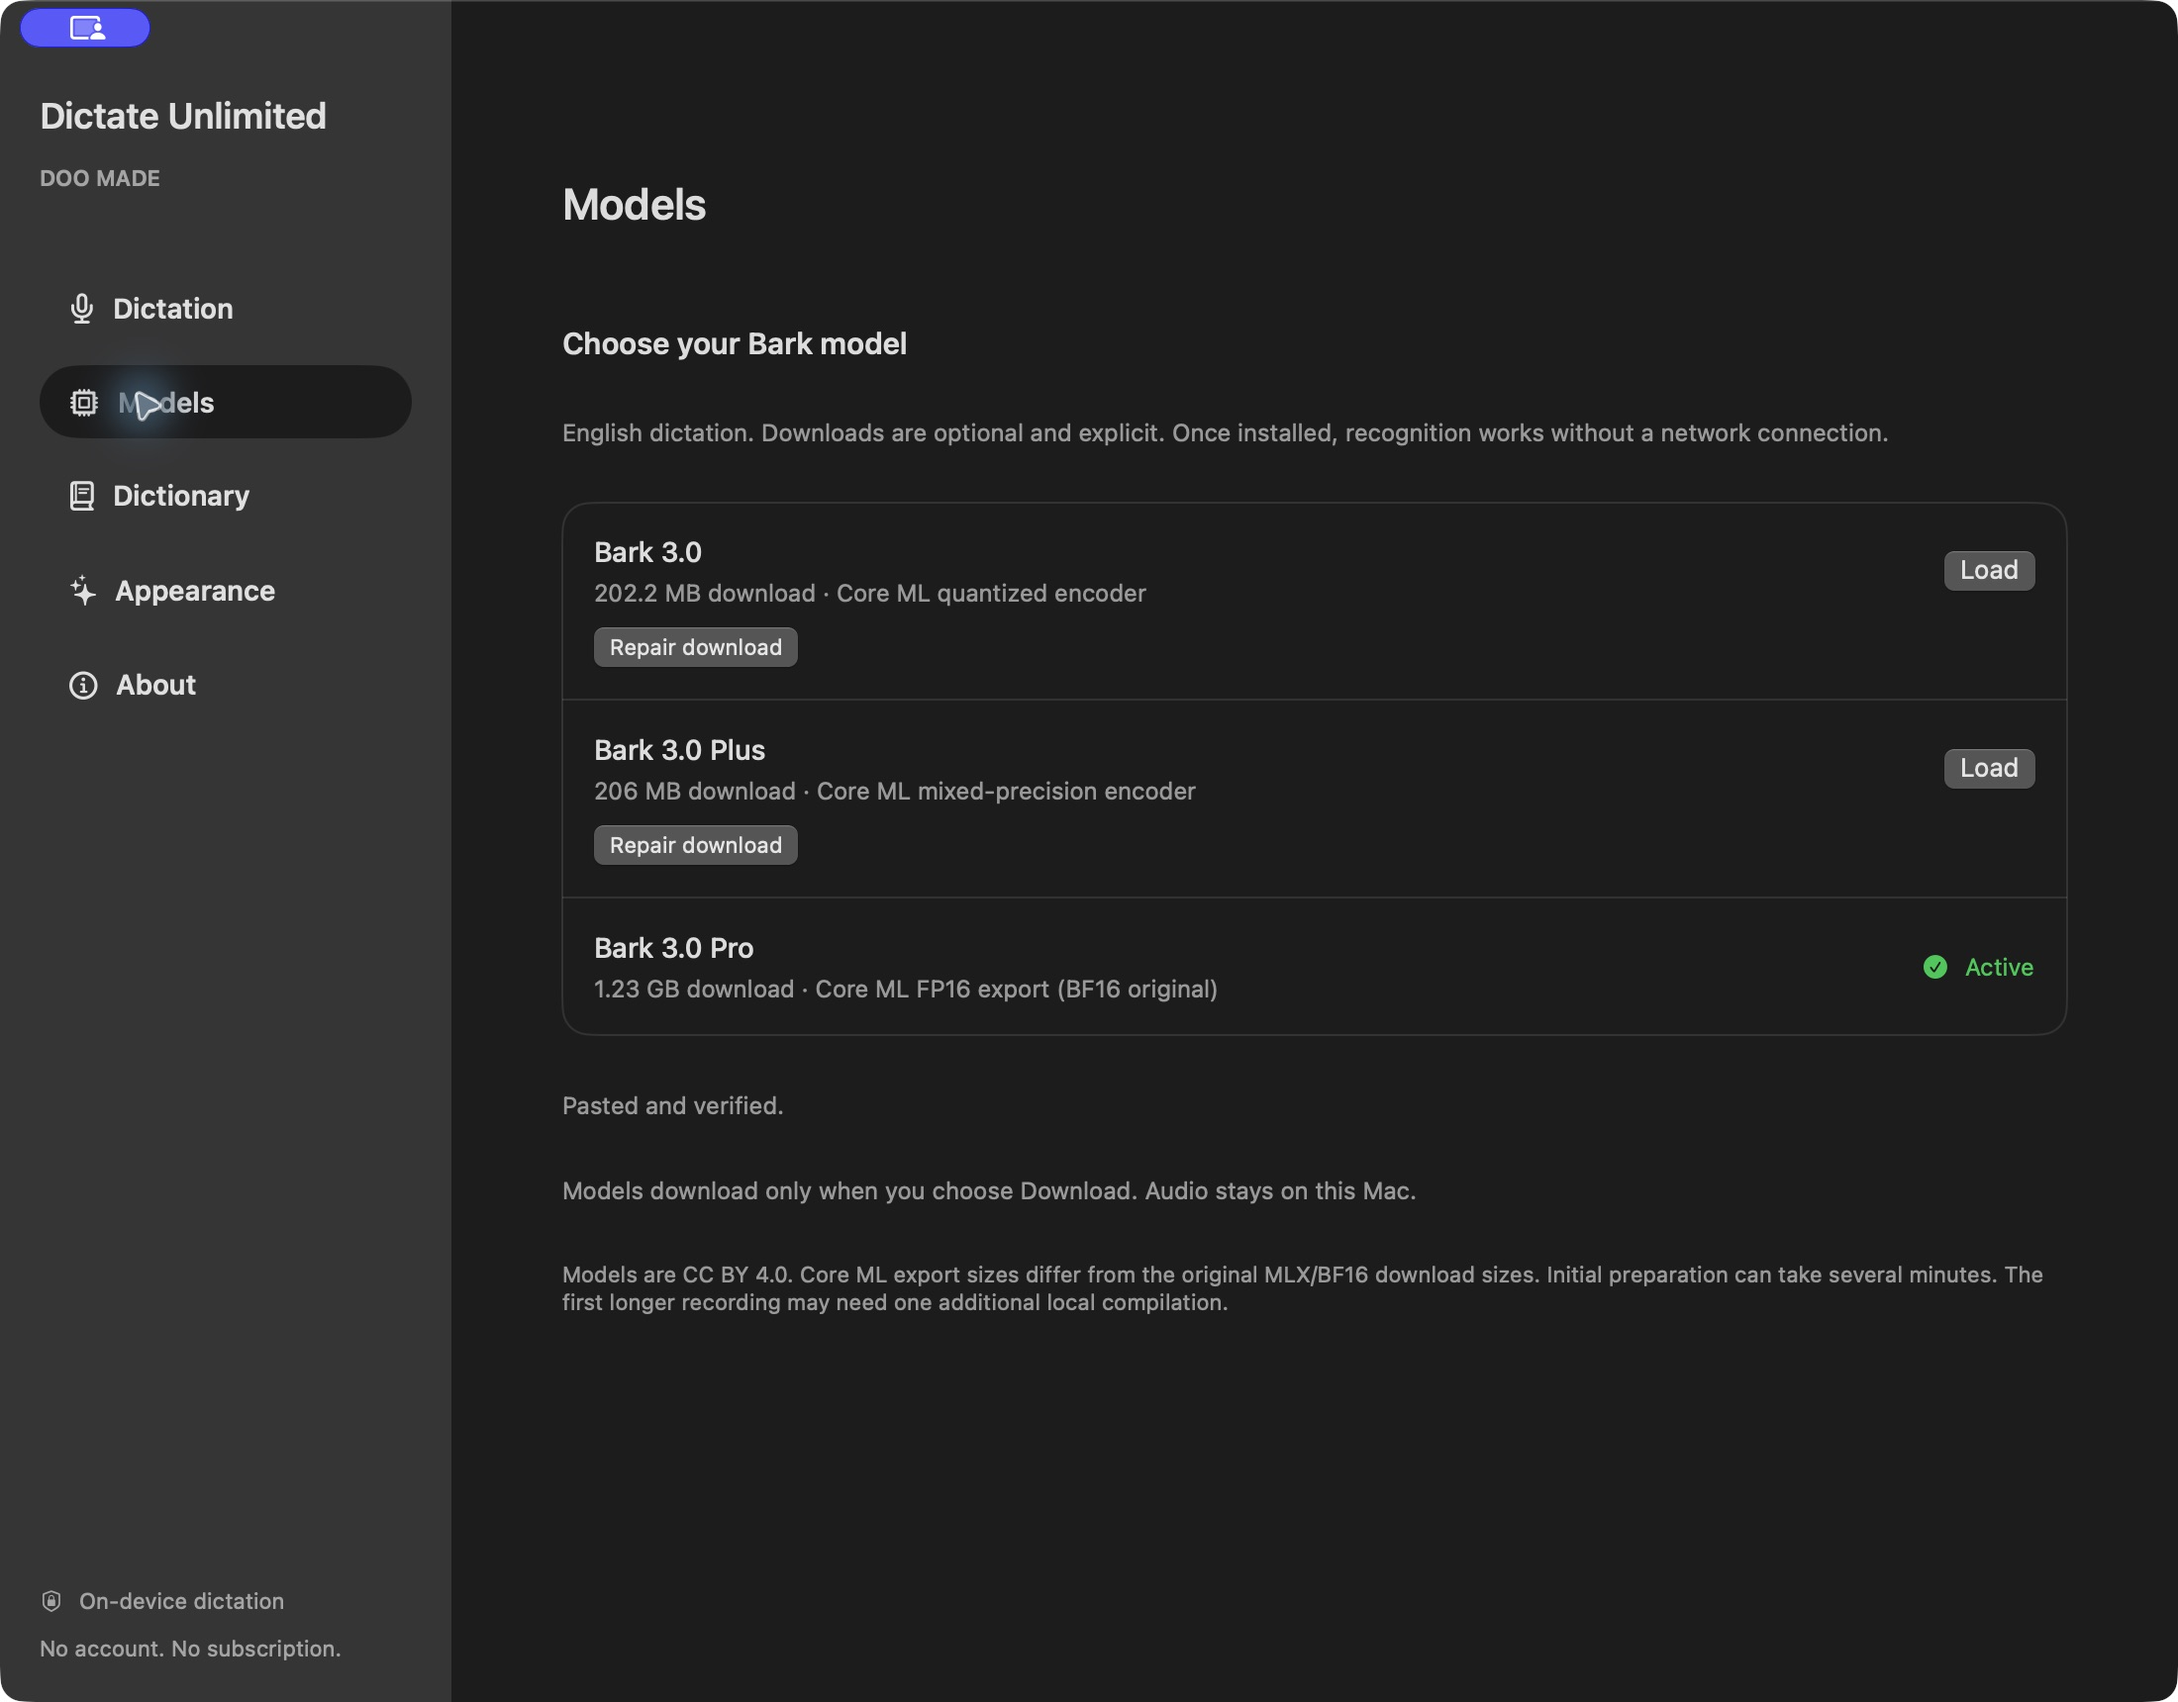
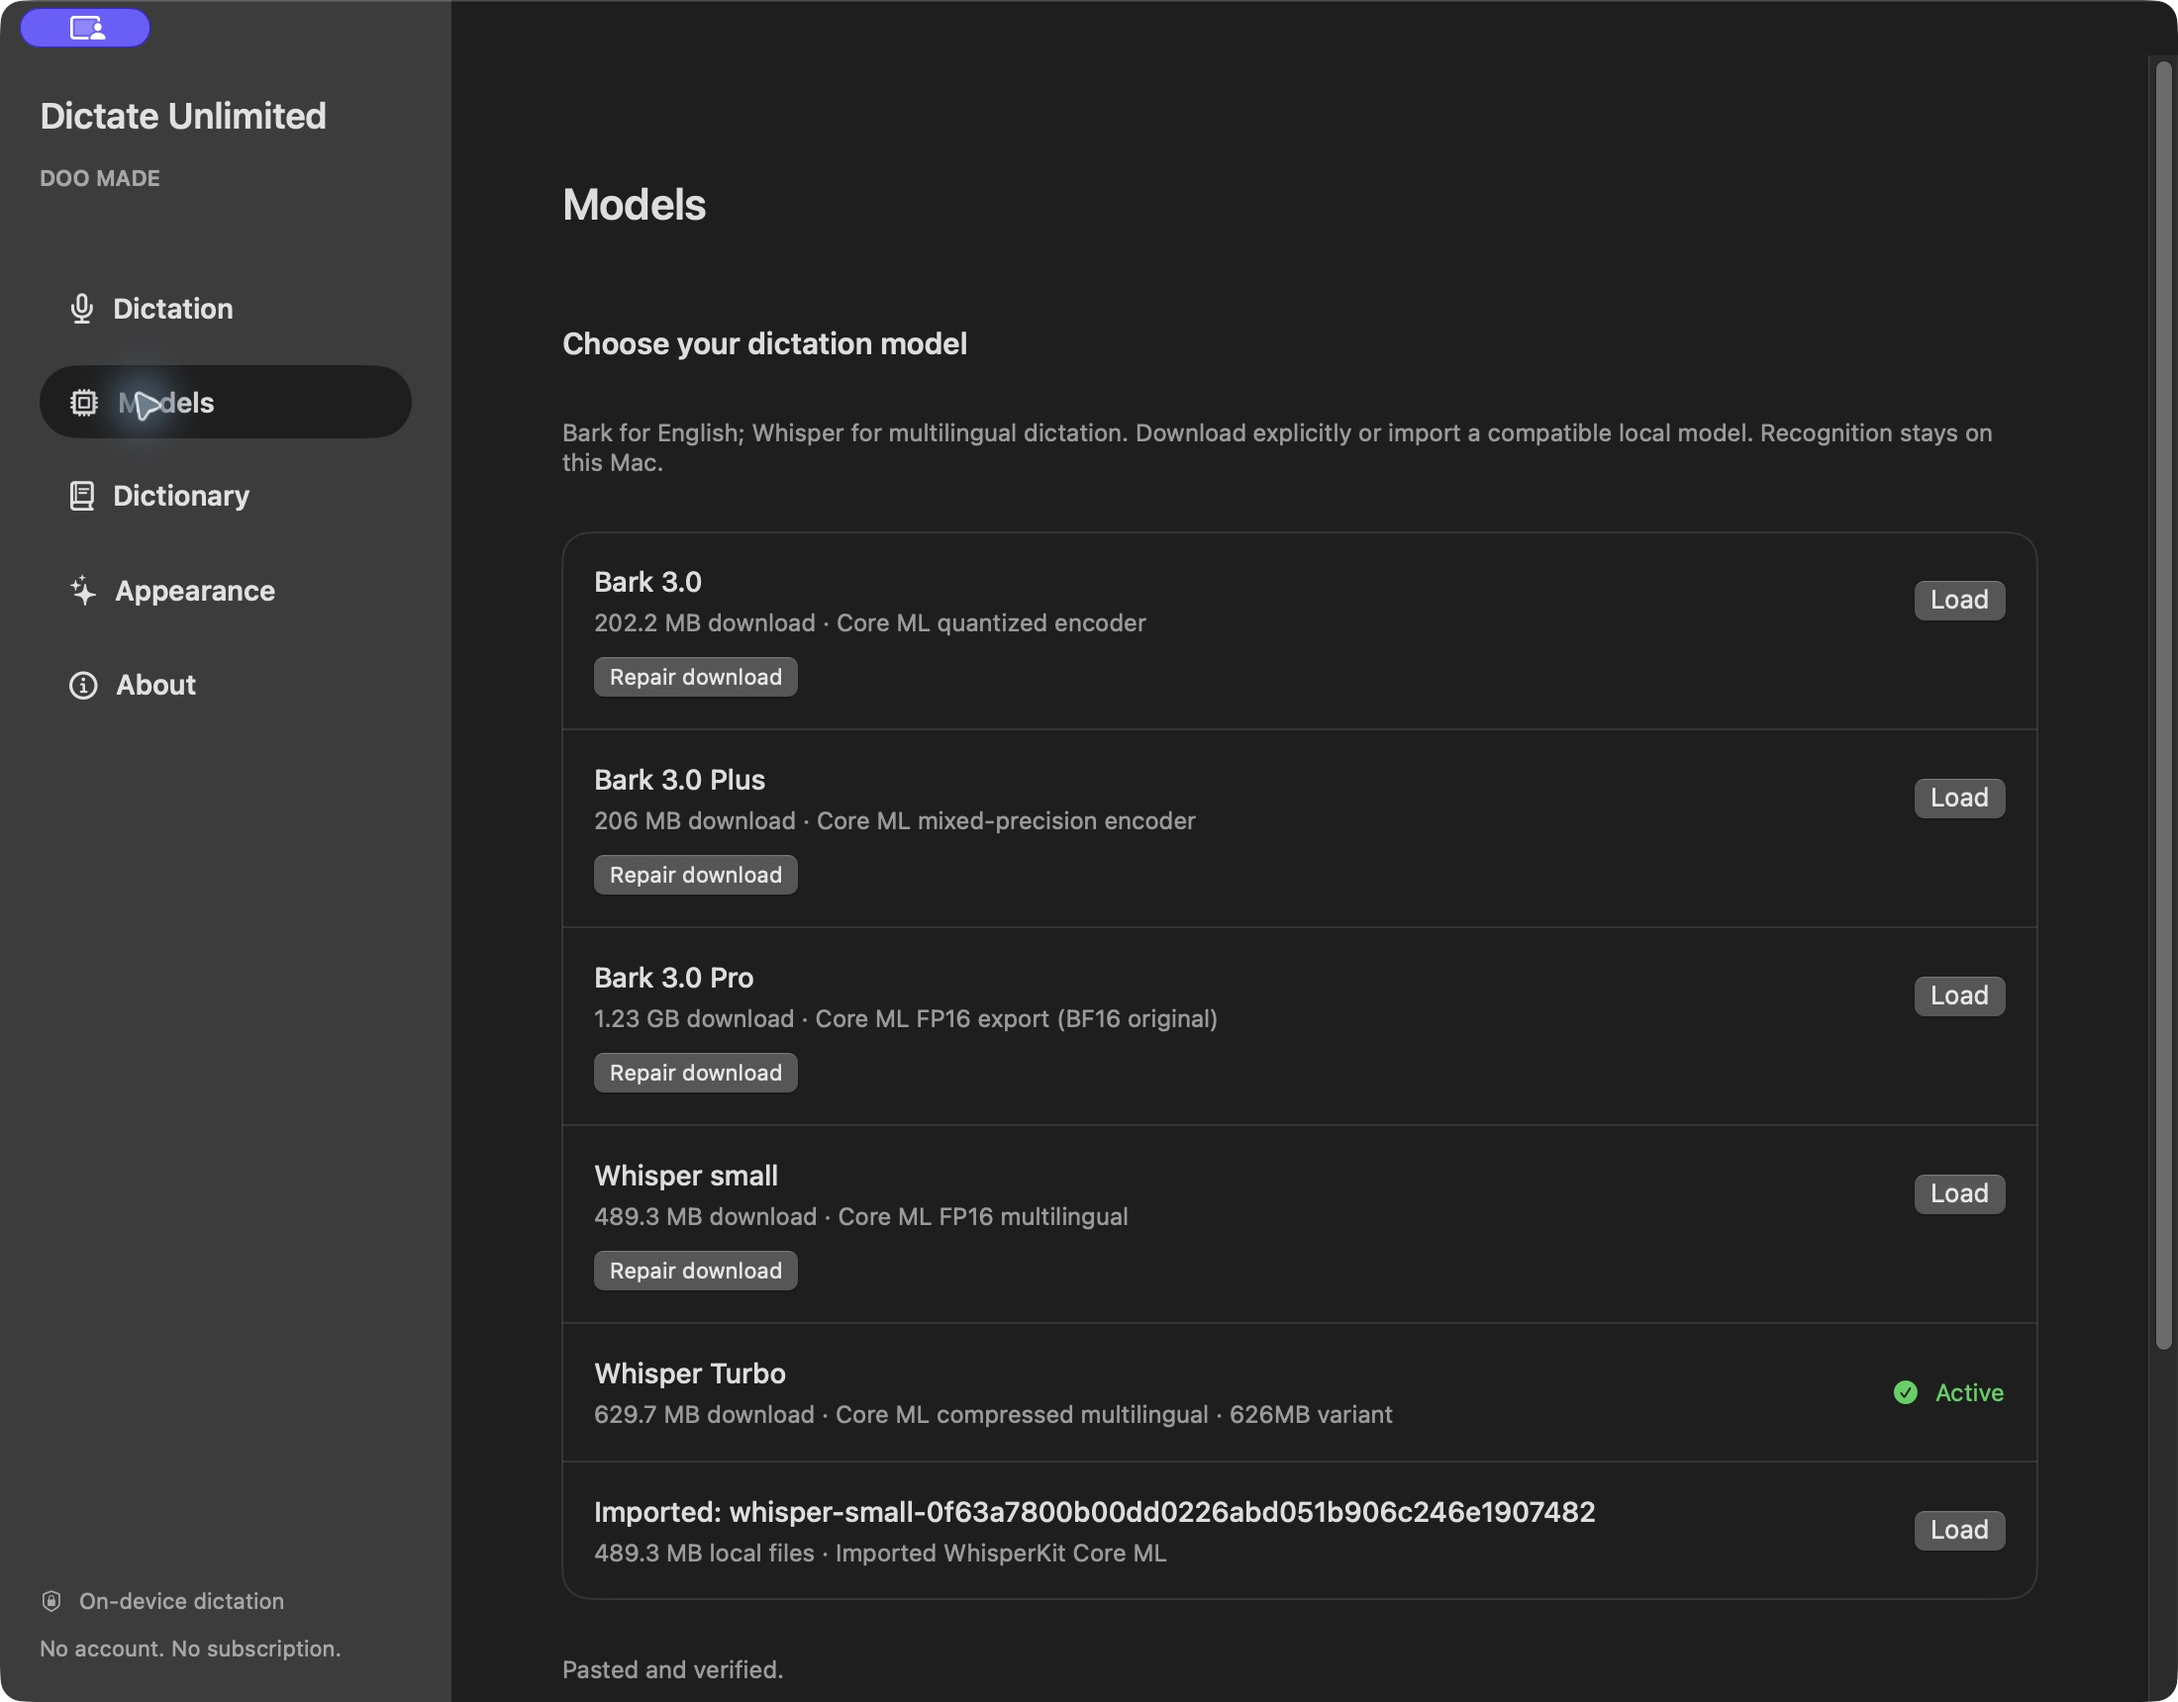
Prepare V1.1 source preview release and updated documentation

diff --git a/docs/TESTING.md b/docs/TESTING.md
@@ -6,6 +6,7 @@ Tools-only test host. Use full Xcode for `swift test`.
 
 ```sh
 ./scripts/check-local.sh
+./scripts/check-audio-startup.sh
 ./scripts/check-session.sh
 ./scripts/check-model-store.sh
 ./scripts/check-correction-store.sh
@@ -18,11 +19,11 @@ interruption and suppression of late results. They do not simulate physical hard
 
 ## Observed coverage
 
-- All three models downloaded through the app into isolated storage and passed
+- All three Bark models downloaded through the app into isolated storage and passed
   declared size/hash checks. The clean-built app then transcribed the synthetic
   fixture from those new downloads with networking denied. Base Repair restored a
   deliberately corrupted artifact. Cancel/retry also passed in the real UI.
-- All three accepted five-minute input and rejected input over the limit.
+- All three Bark models accepted five-minute input and rejected input over the limit.
 - Base and Plus exactly matched a 738-word repeated fixture. Pro inserted three
   extra words. This fixture is not a general recognition-accuracy benchmark.
 - A real five-minute microphone recording stopped automatically; cancellation during
@@ -63,7 +64,7 @@ and re-adding the current app; the tester confirmed delivery afterward. Closing 
 reopening Settings was tested after adding the application reopen handler. These
 checks do not imply every keyboard layout, application or microphone was tested.
 
-## V1.1 local development checks
+## V1.1 validation
 
 Whisper small and compressed Turbo were exercised with networking denied using
 installed macOS Samantha/Yuna synthetic voices, separately in English/Korean and
@@ -78,7 +79,10 @@ English inference; base heard “Mac” as “map”, and Pro emitted its known 
 Import store checks cover copied-file hashes, persistence, corruption, symlinks,
 unexpected executable files, missing components, cancellation and URL directory
 metadata differences. Runtime checks confirm corrupt tokenizers fail locally with
-no fallback. Physical bilingual dictation/insertion on this build remains pending.
+no fallback. The tester confirmed Korean and Japanese dictation worked and reported completion
+of the requested English/Korean/mixed-language check. After the microphone freeze
+repair, the tester confirmed the app worked. These are user confirmations, separate
+from the synthetic fixtures and bounded repeated-start checks below.
 
 Microphone-startup follow-up: a user-reported freeze was sampled inside
 AVAudioEngine input-device setup on the main actor, not Whisper inference. Engine

diff --git a/docs/USAGE.md b/docs/USAGE.md
@@ -2,7 +2,7 @@
 
 ## Use
 
-1. On first use, open Models, download one of Bark 3.0 / Plus / Pro, then Load it. Later launches automatically validate and load your last selected installed model. First load can
+1. On first use, open Models, download a Bark model for English or Whisper small/Turbo for multilingual dictation, then Load it. Later launches automatically validate and load your last selected installed model. First load can
    take minutes while Core ML compiles. Base/Plus prepare the short encoder first and prepare the long encoder
    only when needed. Warm caches are reused; see docs/TESTING.md for coverage and the remaining first-use delay. Switching releases the previous runtime.
 2. In Dictation, check **Microphone readiness**, choose System default or a specific
@@ -50,7 +50,7 @@ beside the verified model artifacts in Application Support/DOO MADE/Dictate Unli
 The original 163/180 MB MLX and 1.25 GB BF16 artifacts are not the Core ML exports.
 Actual displayed downloads are approximately 202 MB, 206 MB and 1.23 GB. Pro uses
 FP16 Core ML weights. Runtime/accuracy equivalence to original benchmark paths is
-not claimed. All three are English models; they transcribe fillers rather than
+not claimed. Bark models are English-only; they transcribe fillers rather than
 performing cloud cleanup.
 
 
@@ -61,3 +61,11 @@ If System Settings shows access enabled but the app says **Text insertion access
 Your completed text remains in the app until Clear or Quit. Once access is restored, focus your writing field and use paste-last recovery. Always inspect an uncertain delivery before retrying to avoid duplicate text.
 
 The app lives in the menu bar. Closing Settings does not quit it. Open the app again or choose Settings from the microphone menu. The floating feedback view hides when dictation finishes.
+
+## Languages and imported models
+
+Load Whisper small or Turbo to enable the Language selector. Choose Auto-detect or
+a listed language, including Korean and Japanese. Transcription keeps the spoken
+language; translation is disabled. Mixed-language results vary, especially with small.
+Use Models → Import local Whisper model for a compatible offline folder. See
+[Whisper and local imports](WHISPER.md) for the exact folder requirements and limits.

diff --git a/docs/PREVIEW-RELEASE.md b/docs/PREVIEW-RELEASE.md
@@ -1,16 +1,19 @@
 # Source preview release
 
-The first public release is a source-only preview. Build it locally using the README.
+V1.1 is a source-only preview. Build it locally using the README.
 No signed/notarized app binary or model weights are distributed. App metadata is
-0.1.0 (build 1); the source preview tag is `v0.1.0-preview.1`.
+0.2.0 (build 2); the source preview tag is `v0.2.0-preview.1`.
 
 ## Scope and checks
 
-Includes three pinned Bark models, microphone readiness and selection, configurable
+Includes three pinned Bark models plus Whisper small and Turbo, language selection,
+compatible local imports, microphone readiness and selection, configurable
 tap/hold shortcuts, safe text delivery, paste-last recovery, a local dictionary,
 and notch/floating feedback. Local tests and physical user checks are summarized in
-[TESTING.md](TESTING.md). All three models passed packaged local inference checks;
-Download/Repair and clean dependency acquisition were tested on the existing Mac.
+[TESTING.md](TESTING.md). All five catalog models passed packaged local inference checks;
+Bark Download/Repair and clean dependency acquisition were tested on the existing Mac.
+Whisper artifacts were acquired and hash-verified; offline inference and GUI import
+were tested. The complete real Whisper Download/Repair GUI flow has not been rerun.
 A fresh second Mac, broad hardware coverage, and hosted CI remain unverified.
 
 ## Source packaging

diff --git a/README.md b/README.md
@@ -8,7 +8,7 @@ Speak into the app you're already using. Choose a Bark or Whisper model, hold or
 a shortcut, and turn speech into text on your Mac. No account, subscription, cloud
 inference, or telemetry.
 
-**V1.1 development branch · Apple Silicon · macOS 15+ · Local testing, not published**
+**V1.1 source preview · Apple Silicon · macOS 15+ · English and multilingual dictation**
 
 This release is for people comfortable building from source. A signed, notarized
 app download is not available yet. There is no usage quota; each recording has a
@@ -30,7 +30,7 @@ five-minute limit. Recognition quality and insertion support vary by model and a
 
 Real screenshots from the local preview build. The banner above is illustrative artwork.
 
-![Model selection showing Bark 3.0, Plus and Pro](docs/images/models.jpg)
+![Model selection showing three Bark models, Whisper small and Turbo, and a local import](docs/images/models.jpg)
 
 <details>
 <summary>Recording feedback settings</summary>
@@ -110,6 +110,7 @@ are outside V1. See [known limits and tested coverage](docs/TESTING.md).
 
 ```sh
 ./scripts/check-local.sh
+./scripts/check-audio-startup.sh
 ./scripts/check-session.sh
 ./scripts/check-model-store.sh
 ./scripts/check-correction-store.sh

diff --git a/CHANGELOG.md b/CHANGELOG.md
@@ -1,12 +1,14 @@
 # Changelog
 
-## Unreleased: V1.1
+## 0.2.0-preview.1 · V1.1
 
 - Whisper small and compressed large-v3-turbo with fully local tokenizers.
 - Automatic or explicit transcription language, including English and Korean.
 - Validated, copied local WhisperKit model imports with persistence.
 - Existing Bark models and local-only inference retained.
-- Local testing only; do not treat this branch as a published release.
+- Microphone startup moved off the UI thread with bounded timeout and cancellation.
+- Fixed false input-change interruptions; nine repeated capture cycles tested.
+- Source-only preview. No signed/notarized app binary is distributed.
 
 ## 0.1.0-preview.1
 

diff --git a/docs/SIGNING-NOTARIZATION.md b/docs/SIGNING-NOTARIZATION.md
@@ -25,7 +25,7 @@ input. Accessibility is separately granted by the user; insertion uses no Apple 
 The helper refuses an existing output and creates a separate ad-hoc Hardened Runtime
 copy. It does not contact a timestamp service, use Developer ID credentials, or
 submit anything. This output is **not notarized**. A prior local hardened copy passed
-signature/resource checks and offline inference for all three models; that does not
+signature/resource checks and offline inference for all three Bark models; that does not
 prove final signed GUI behavior or Apple acceptance.
 
 Before a binary release, verify the exact signed artifact, successful notarization,

diff --git a/docs/images/README.md b/docs/images/README.md
@@ -2,7 +2,9 @@
 
 - `hero.png`: original illustrative banner generated for DOO MADE with Higgsfield
   (GPT Image 2.5), 2026-10-22. It is not a screenshot or an app icon.
-- `models.jpg`, `appearance.jpg`: unaltered captures of Dictate Unlimited's own
+- `models.jpg`: unaltered V1.1 capture, 2026-10-23, including a synthetic local
+  import example.
+- `appearance.jpg`: unaltered capture of Dictate Unlimited's own
   running native interface, 2026-10-22. No source-app assets, transcript text or
   personal dictionary entries are shown. The macOS capture indicator and pointer
   are capture artifacts, not app controls.

diff --git a/.github/pull_request_template.md b/.github/pull_request_template.md
@@ -8,6 +8,6 @@ List checks actually run and their results. State anything not tested.
 
 ## Scope
 
-- [ ] Preserves local-only inference and the three-model V1 scope.
+- [ ] Preserves local-only inference and the Bark/Whisper dictation scope.
 - [ ] Preserves licences, checksums and safe insertion behavior.
 - [ ] Contains no private recordings, transcripts, credentials or model weights.

diff --git a/docs/WHISPER.md b/docs/WHISPER.md
@@ -1,6 +1,7 @@
 # Whisper and local model imports
 
-V1.1 is under local testing. The public source preview has not been updated.
+V1.1 is available as source preview `v0.2.0-preview.1`. Build from source;
+no signed/notarized app binary is included.
 
 ## Recommended models
 
